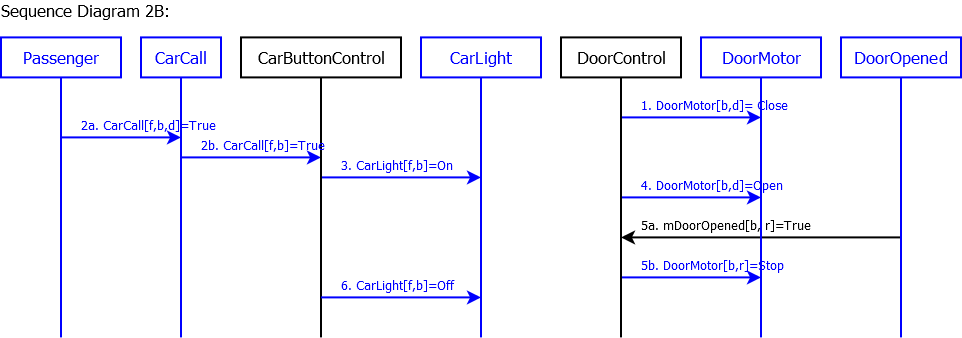
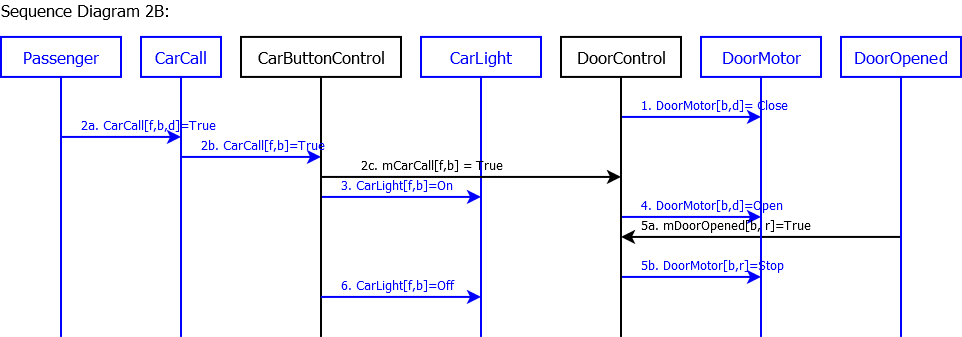
Made changes to 2b,3a - Harsha

diff --git a/portfolio_template/scen_sd/scen_sd.html b/portfolio_template/scen_sd/scen_sd.html
@@ -31,6 +31,7 @@
 
 
 
+
         Sally Stevenson (ststeven)<br>
         &nbsp;&nbsp;&nbsp; &nbsp;&nbsp;&nbsp; &nbsp;&nbsp;&nbsp;
         &nbsp;&nbsp;&nbsp;&nbsp;&nbsp; Sri Harsha Koppaka (skoppaka)<br>
@@ -266,7 +267,6 @@
         <li>Door[<b>b</b>,<b>r</b>] opens.</li>
         <li>Door[<b>b</b>,<b>r</b>] finishes opening.</li>
         <li>Passenger enters elevator.</li>
-        <li>Passenger finishes entering.</li>
       </ol>
       <h3> Post-Conditions: </h3>
       <ul type="disc">
@@ -489,9 +489,9 @@
       </ul>
       <h3> Scenario: </h3>
       <ol start="1" type="1">
-          <li>Door[b,r] closes.</li>
-          <li>Doors complete closing.</li>
-          <li>CarLantern goes off.</li>
+        <li>Door[b,r] closes.</li>
+        <li>Doors complete closing.</li>
+        <li>CarLantern goes off.</li>
       </ol>
       <h3> Post-Conditions: </h3>
       <ul>
